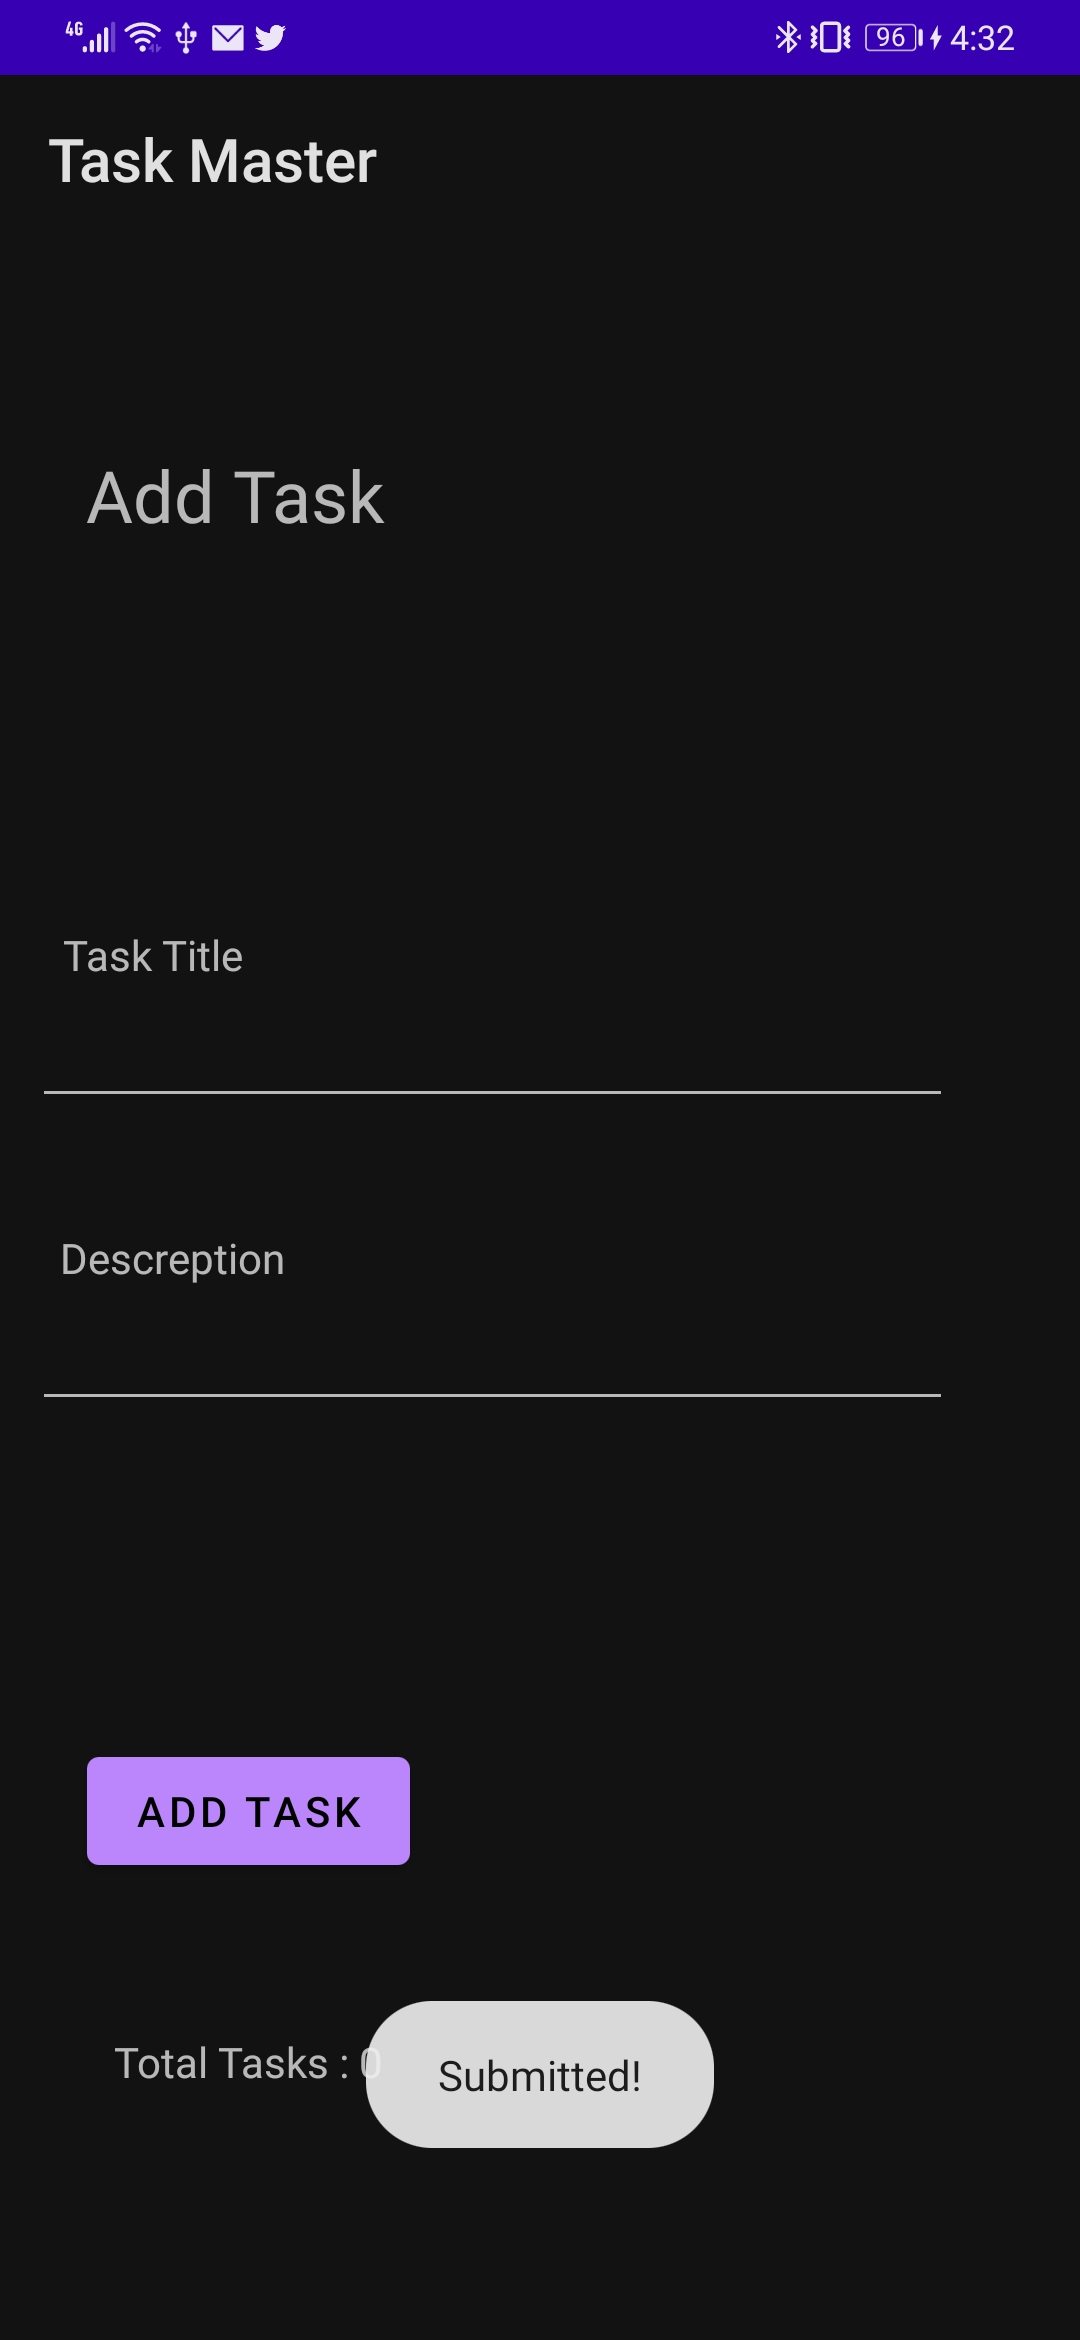
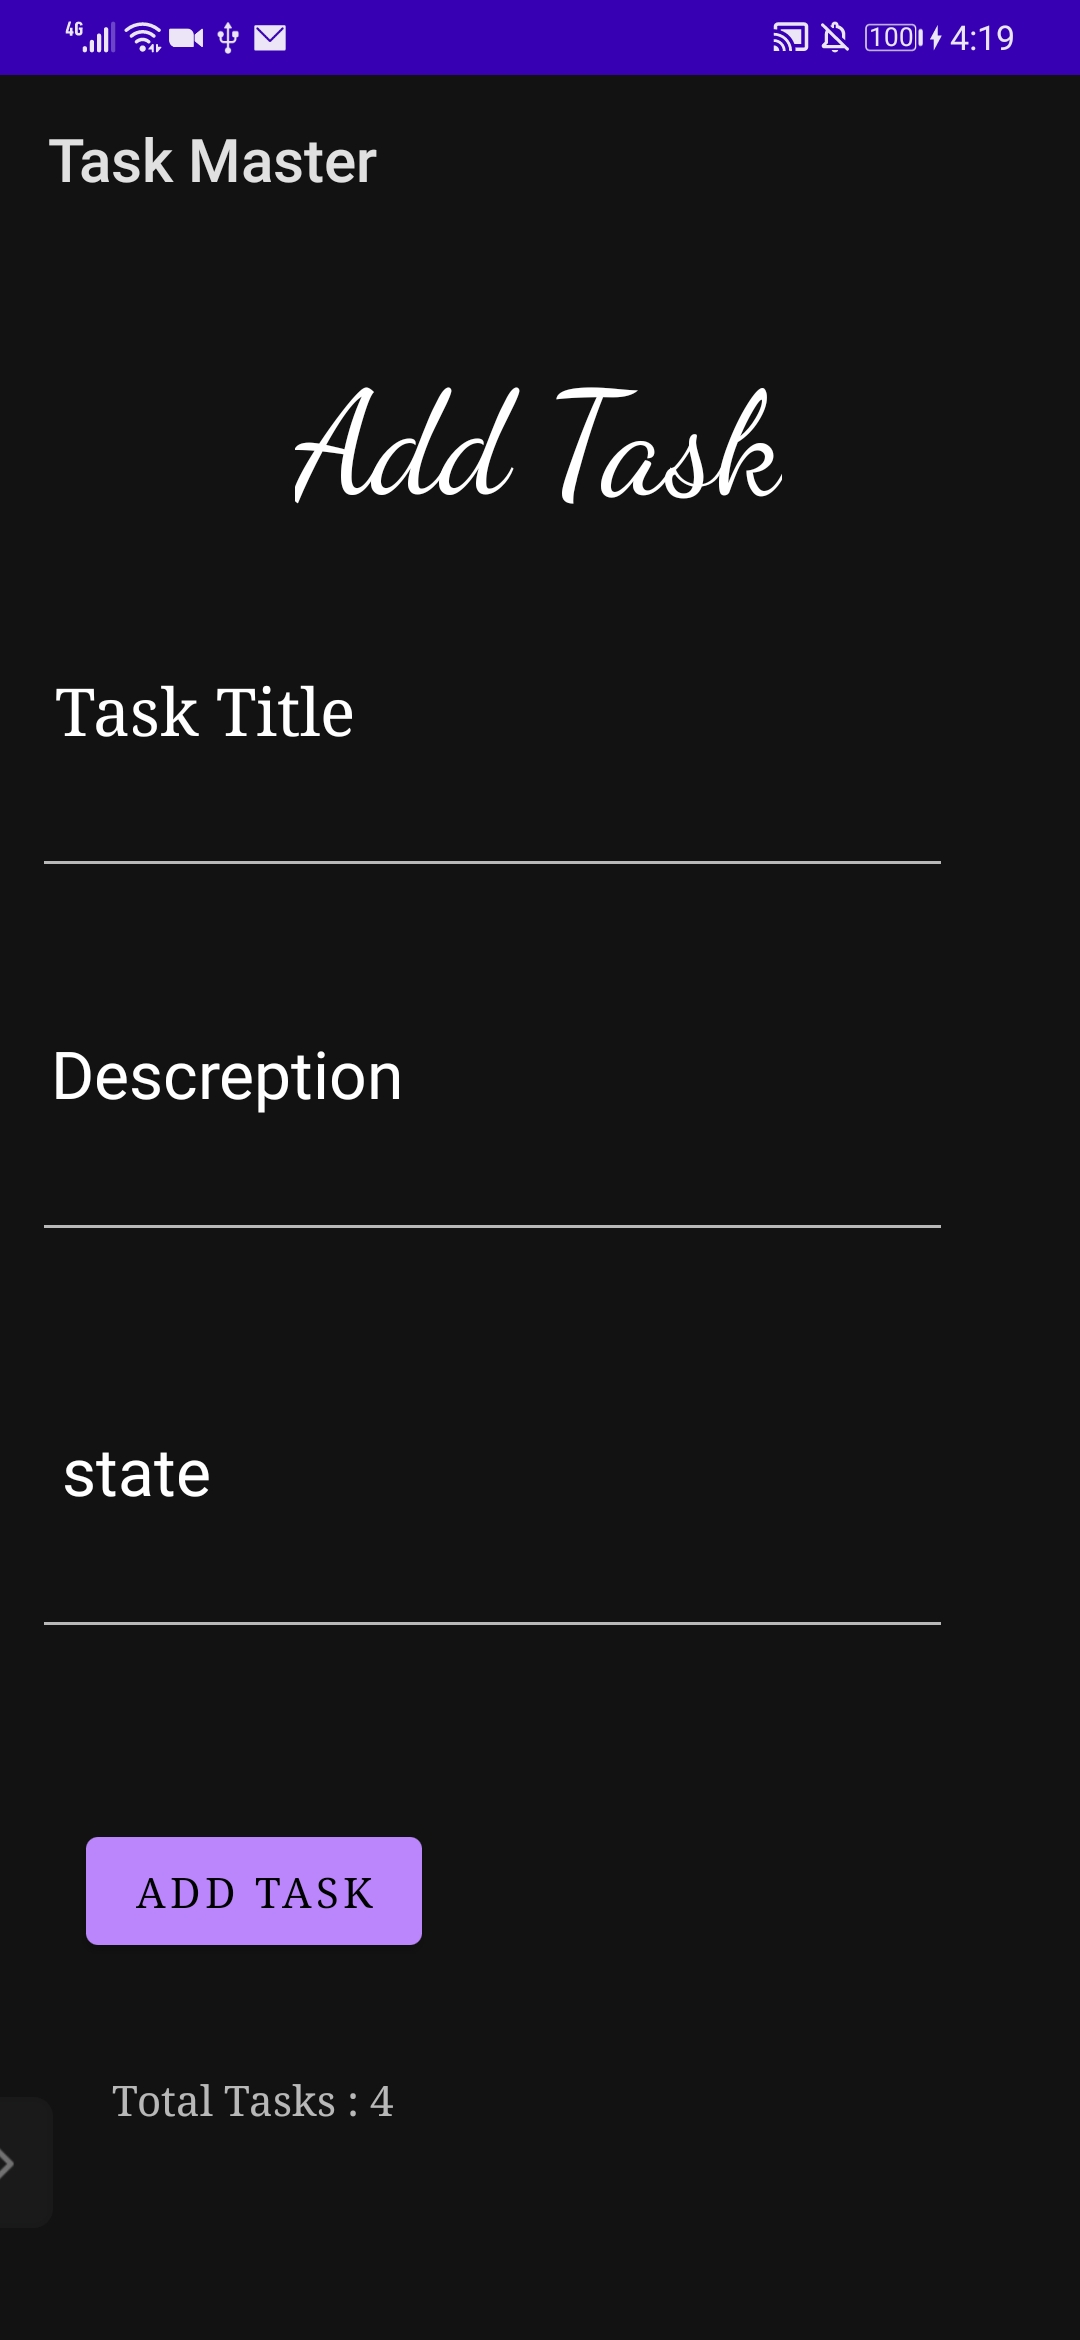
lab29

diff --git a/app/src/main/java/com/example/taskmaster/AddTask.java b/app/src/main/java/com/example/taskmaster/AddTask.java
@@ -1,11 +1,17 @@
 package com.example.taskmaster;
 
 import androidx.appcompat.app.AppCompatActivity;
+import androidx.room.Room;
 
+import android.content.Intent;
 import android.os.Bundle;
 import android.view.View;
 import android.widget.Button;
+import android.widget.EditText;
+import android.widget.TextView;
 import android.widget.Toast;
+
+import java.util.List;
 
 public class AddTask extends AppCompatActivity {
 
@@ -14,12 +20,37 @@ public class AddTask extends AppCompatActivity {
         super.onCreate(savedInstanceState);
         setContentView(R.layout.activity_add_task);
 
+
+    }
+
+    @Override
+    protected void onStart() {
+        super.onStart();
+
+        AppDatabase db =  Room.databaseBuilder(getApplicationContext(), AppDatabase.class, "taskMaster").allowMainThreadQueries().build();
+        TaskDao taskDao = db.taskDao();
         Button addTask = findViewById(R.id.add);
         addTask.setOnClickListener(new View.OnClickListener() {
             @Override
             public void onClick(View v) {
                 Toast.makeText(getApplicationContext(), "Submitted!", Toast.LENGTH_LONG).show();
+                EditText tasTitle = findViewById(R.id.taskTitle);
+                EditText desc = findViewById(R.id.descreption);
+                EditText state = findViewById(R.id.stateOfTaskField);
+
+                Task task = new Task(tasTitle.getText().toString(),desc.getText().toString(),state.getText().toString());
+
+                taskDao.insertAll(task);
+
+                Intent toHome = new Intent(AddTask.this,MainActivity.class);
+                startActivity(toHome);
+
             }
         });
+
+        int countNumber = taskDao.getAll().size();
+
+        TextView count = findViewById(R.id.textView2);
+        count.setText("Total Tasks : "+countNumber);
     }
 }

diff --git a/app/src/main/java/com/example/taskmaster/MainActivity.java b/app/src/main/java/com/example/taskmaster/MainActivity.java
@@ -3,6 +3,7 @@ package com.example.taskmaster;
 import androidx.appcompat.app.AppCompatActivity;
 import androidx.recyclerview.widget.LinearLayoutManager;
 import androidx.recyclerview.widget.RecyclerView;
+import androidx.room.Room;
 
 import android.content.Intent;
 import android.content.SharedPreferences;
@@ -64,15 +65,21 @@ public class MainActivity extends AppCompatActivity {
         });
 
         
-        List<Task> allTasksData = new ArrayList<>();
-        allTasksData.add(new Task("401-presentation","this is the presentation body","new"));
-        allTasksData.add(new Task("code challenge","this is the code challenge body","new"));
-        allTasksData.add(new Task("solve lab","this is the solve lab body","new"));
-        allTasksData.add(new Task("401-final","this is the final body","new"));
+//        List<Task> allTasksData = new ArrayList<>();
+//        allTasksData.add(new Task("401-presentation","this is the presentation body","new"));
+//        allTasksData.add(new Task("code challenge","this is the code challenge body","new"));
+//        allTasksData.add(new Task("solve lab","this is the solve lab body","new"));
+//        allTasksData.add(new Task("401-final","this is the final body","new"));
+
+        AppDatabase db =  Room.databaseBuilder(getApplicationContext(), AppDatabase.class, "taskMaster").allowMainThreadQueries().build();
+        TaskDao userDao = db.taskDao();
+
+
+        List<Task> tasks = userDao.getAll();
 
         RecyclerView allTasksRecuclerView = findViewById(R.id.tasksRecucleView);
         allTasksRecuclerView.setLayoutManager(new LinearLayoutManager(this));
-        allTasksRecuclerView.setAdapter(new TaskAdapter(allTasksData));
+        allTasksRecuclerView.setAdapter(new TaskAdapter(tasks));
 
     }
 

diff --git a/app/src/main/java/com/example/taskmaster/TaskDetail.java b/app/src/main/java/com/example/taskmaster/TaskDetail.java
@@ -1,10 +1,13 @@
 package com.example.taskmaster;
 
 import androidx.appcompat.app.AppCompatActivity;
+import androidx.room.Room;
 
 import android.content.Intent;
 import android.os.Bundle;
 import android.widget.TextView;
+
+import java.util.List;
 
 public class TaskDetail extends AppCompatActivity {
 
@@ -13,9 +16,20 @@ public class TaskDetail extends AppCompatActivity {
         super.onCreate(savedInstanceState);
         setContentView(R.layout.activity_task_detail);
 
+        AppDatabase db =  Room.databaseBuilder(getApplicationContext(), AppDatabase.class, "taskMaster").allowMainThreadQueries().build();
+        TaskDao userDao = db.taskDao();
+
         Intent intent = getIntent();
-        String title = intent.getExtras().getString("title");
+
+        Task task = userDao.findById(intent.getExtras().getInt("id"));
+
+
         TextView titleText = findViewById(R.id.detailPageTitle);
-        titleText.setText(title);
+        TextView state = findViewById(R.id.textView11);
+        TextView desc = findViewById(R.id.textView8);
+
+        titleText.setText(task.title);
+        state.setText(task.state);
+        desc.setText(task.body);
     }
 }

diff --git a/app/src/main/java/com/example/taskmaster/TaskAdapter.java b/app/src/main/java/com/example/taskmaster/TaskAdapter.java
@@ -30,6 +30,15 @@ public class TaskAdapter extends RecyclerView.Adapter<TaskAdapter.TaskViewHolder
         public TaskViewHolder(@NonNull View itemView) {
             super(itemView);
             this.itemView = itemView;
+
+            itemView.findViewById(R.id.taskFragmentButton).setOnClickListener(new View.OnClickListener() {
+                @Override
+                public void onClick(View v) {
+                    Intent toDetailsPage = new Intent(v.getContext(),TaskDetail.class);
+                    toDetailsPage.putExtra("id",task.id);
+                    v.getContext().startActivity(toDetailsPage);
+                }
+            });
         }
     }
     @NonNull

diff --git a/app/src/main/java/com/example/taskmaster/TaskDao.java b/app/src/main/java/com/example/taskmaster/TaskDao.java
@@ -1,0 +1,24 @@
+package com.example.taskmaster;
+import androidx.room.Dao;
+import androidx.room.Delete;
+import androidx.room.Insert;
+import androidx.room.Query;
+import java.util.List;
+
+@Dao
+public interface TaskDao {
+    @Query("SELECT * FROM tasks")
+    List<Task> getAll();
+
+
+
+    @Query("SELECT * FROM tasks WHERE id LIKE :id")
+    Task findById(int id) ;
+
+    @Insert
+    void insertAll(Task... task);
+
+    @Delete
+    void delete(Task task);
+
+}

diff --git a/app/src/main/java/com/example/taskmaster/Task.java b/app/src/main/java/com/example/taskmaster/Task.java
@@ -1,7 +1,12 @@
 package com.example.taskmaster;
 
+import androidx.room.Entity;
+import androidx.room.PrimaryKey;
 
+@Entity(tableName = "tasks")
 public class Task {
+    @PrimaryKey(autoGenerate = true)
+    public int id;
     public String title;
     public String body;
     public String state;

diff --git a/app/src/main/java/com/example/taskmaster/AppDatabase.java b/app/src/main/java/com/example/taskmaster/AppDatabase.java
@@ -1,0 +1,10 @@
+package com.example.taskmaster;
+
+import androidx.room.Database;
+import androidx.room.RoomDatabase;
+
+@Database(entities = {Task.class}, version = 1)
+public abstract class AppDatabase extends RoomDatabase {
+    public abstract TaskDao taskDao();
+}
+

diff --git a/README.md b/README.md
@@ -1,7 +1,7 @@
 # taskmaster
 
 this is an android application which allows the users to manage their tasks. 
-version: 1.0.1
+version: 1.0.2
 
 #### lab26 changelog:
 + create a home page which has a three tasks buttons and settings button and (add task , all tasks) buttons.
@@ -15,6 +15,10 @@ version: 1.0.1
 #### lab28 changelog:
 + add a recycle view to show the tasks dynamically in home page.
 
+#### lab29 changelog:
++ a data base added, the data now is stored in the database.
++ added a click functionality on the tasks on main page to navigate you to task details page.
++ when adding a new task from add task page the task will be stored in the data base.
 
 
 ## here are some screens of the application
@@ -28,7 +32,7 @@ version: 1.0.1
 
 
 ### the details page:
-<img src="screenshots/details.jpg" height="400" alt="Screenshot"/>
+<img src="screenshots/detail.jpg" height="400" alt="Screenshot"/>
 
 
 
